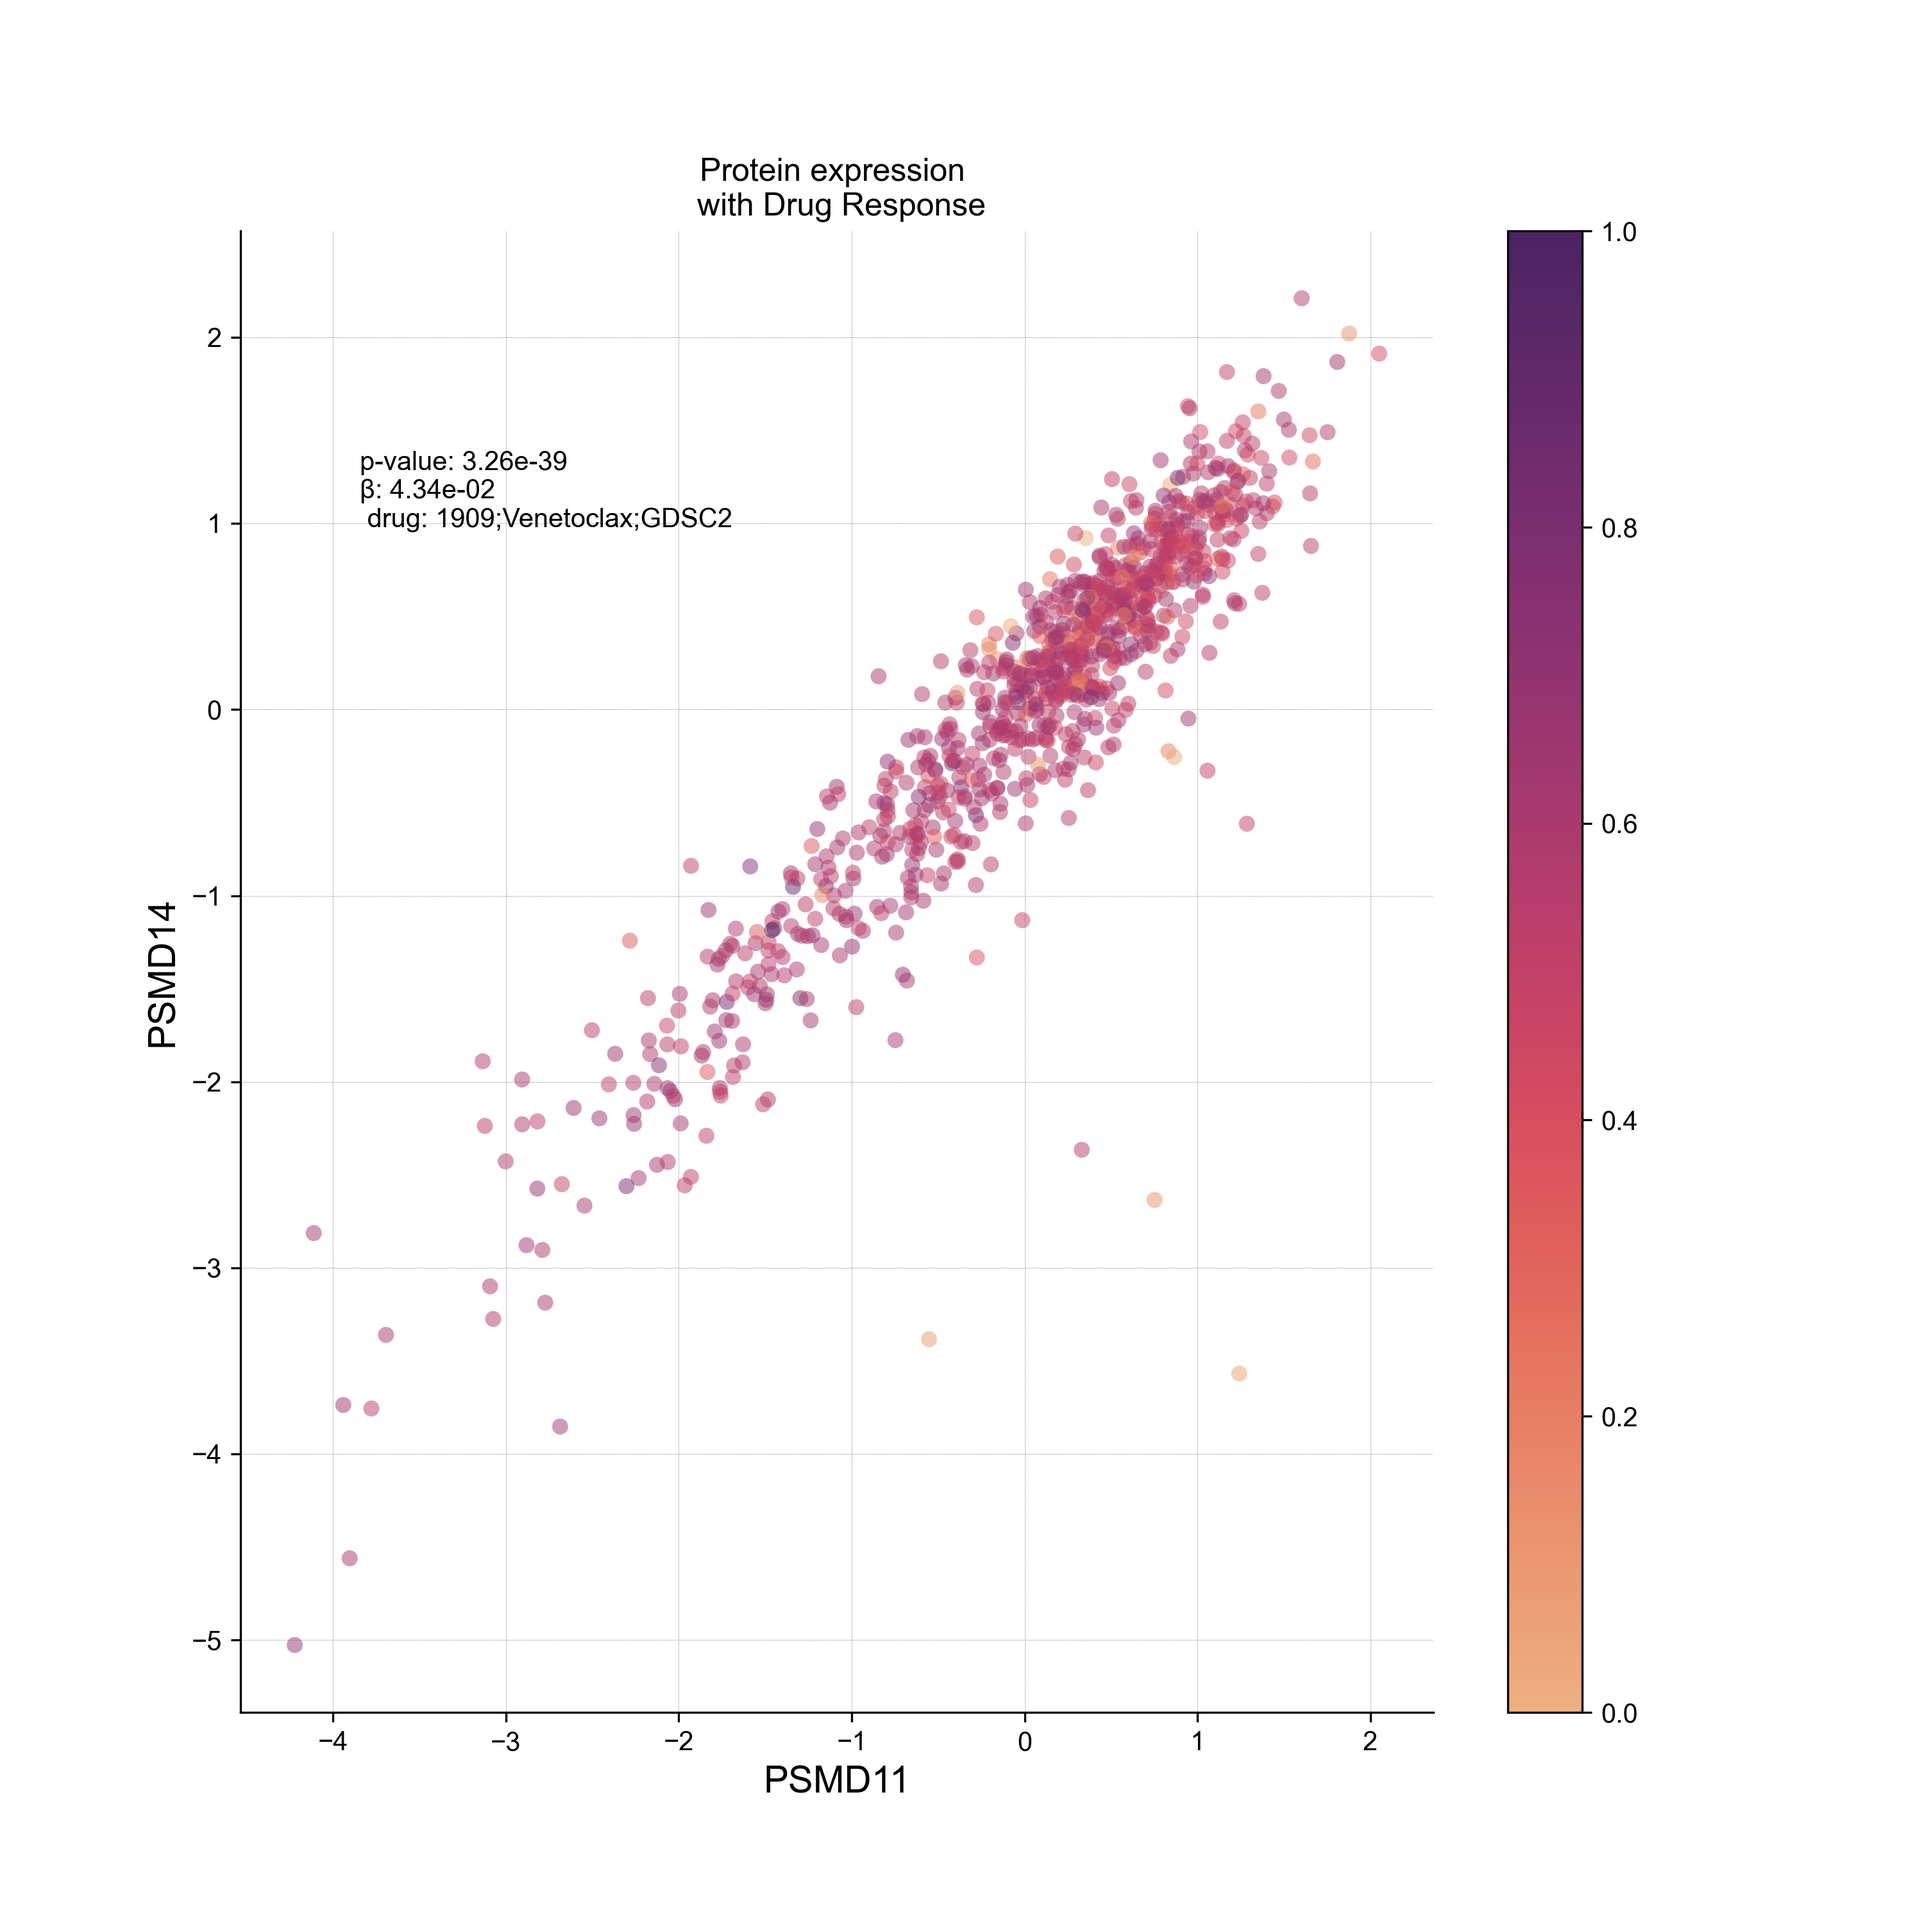
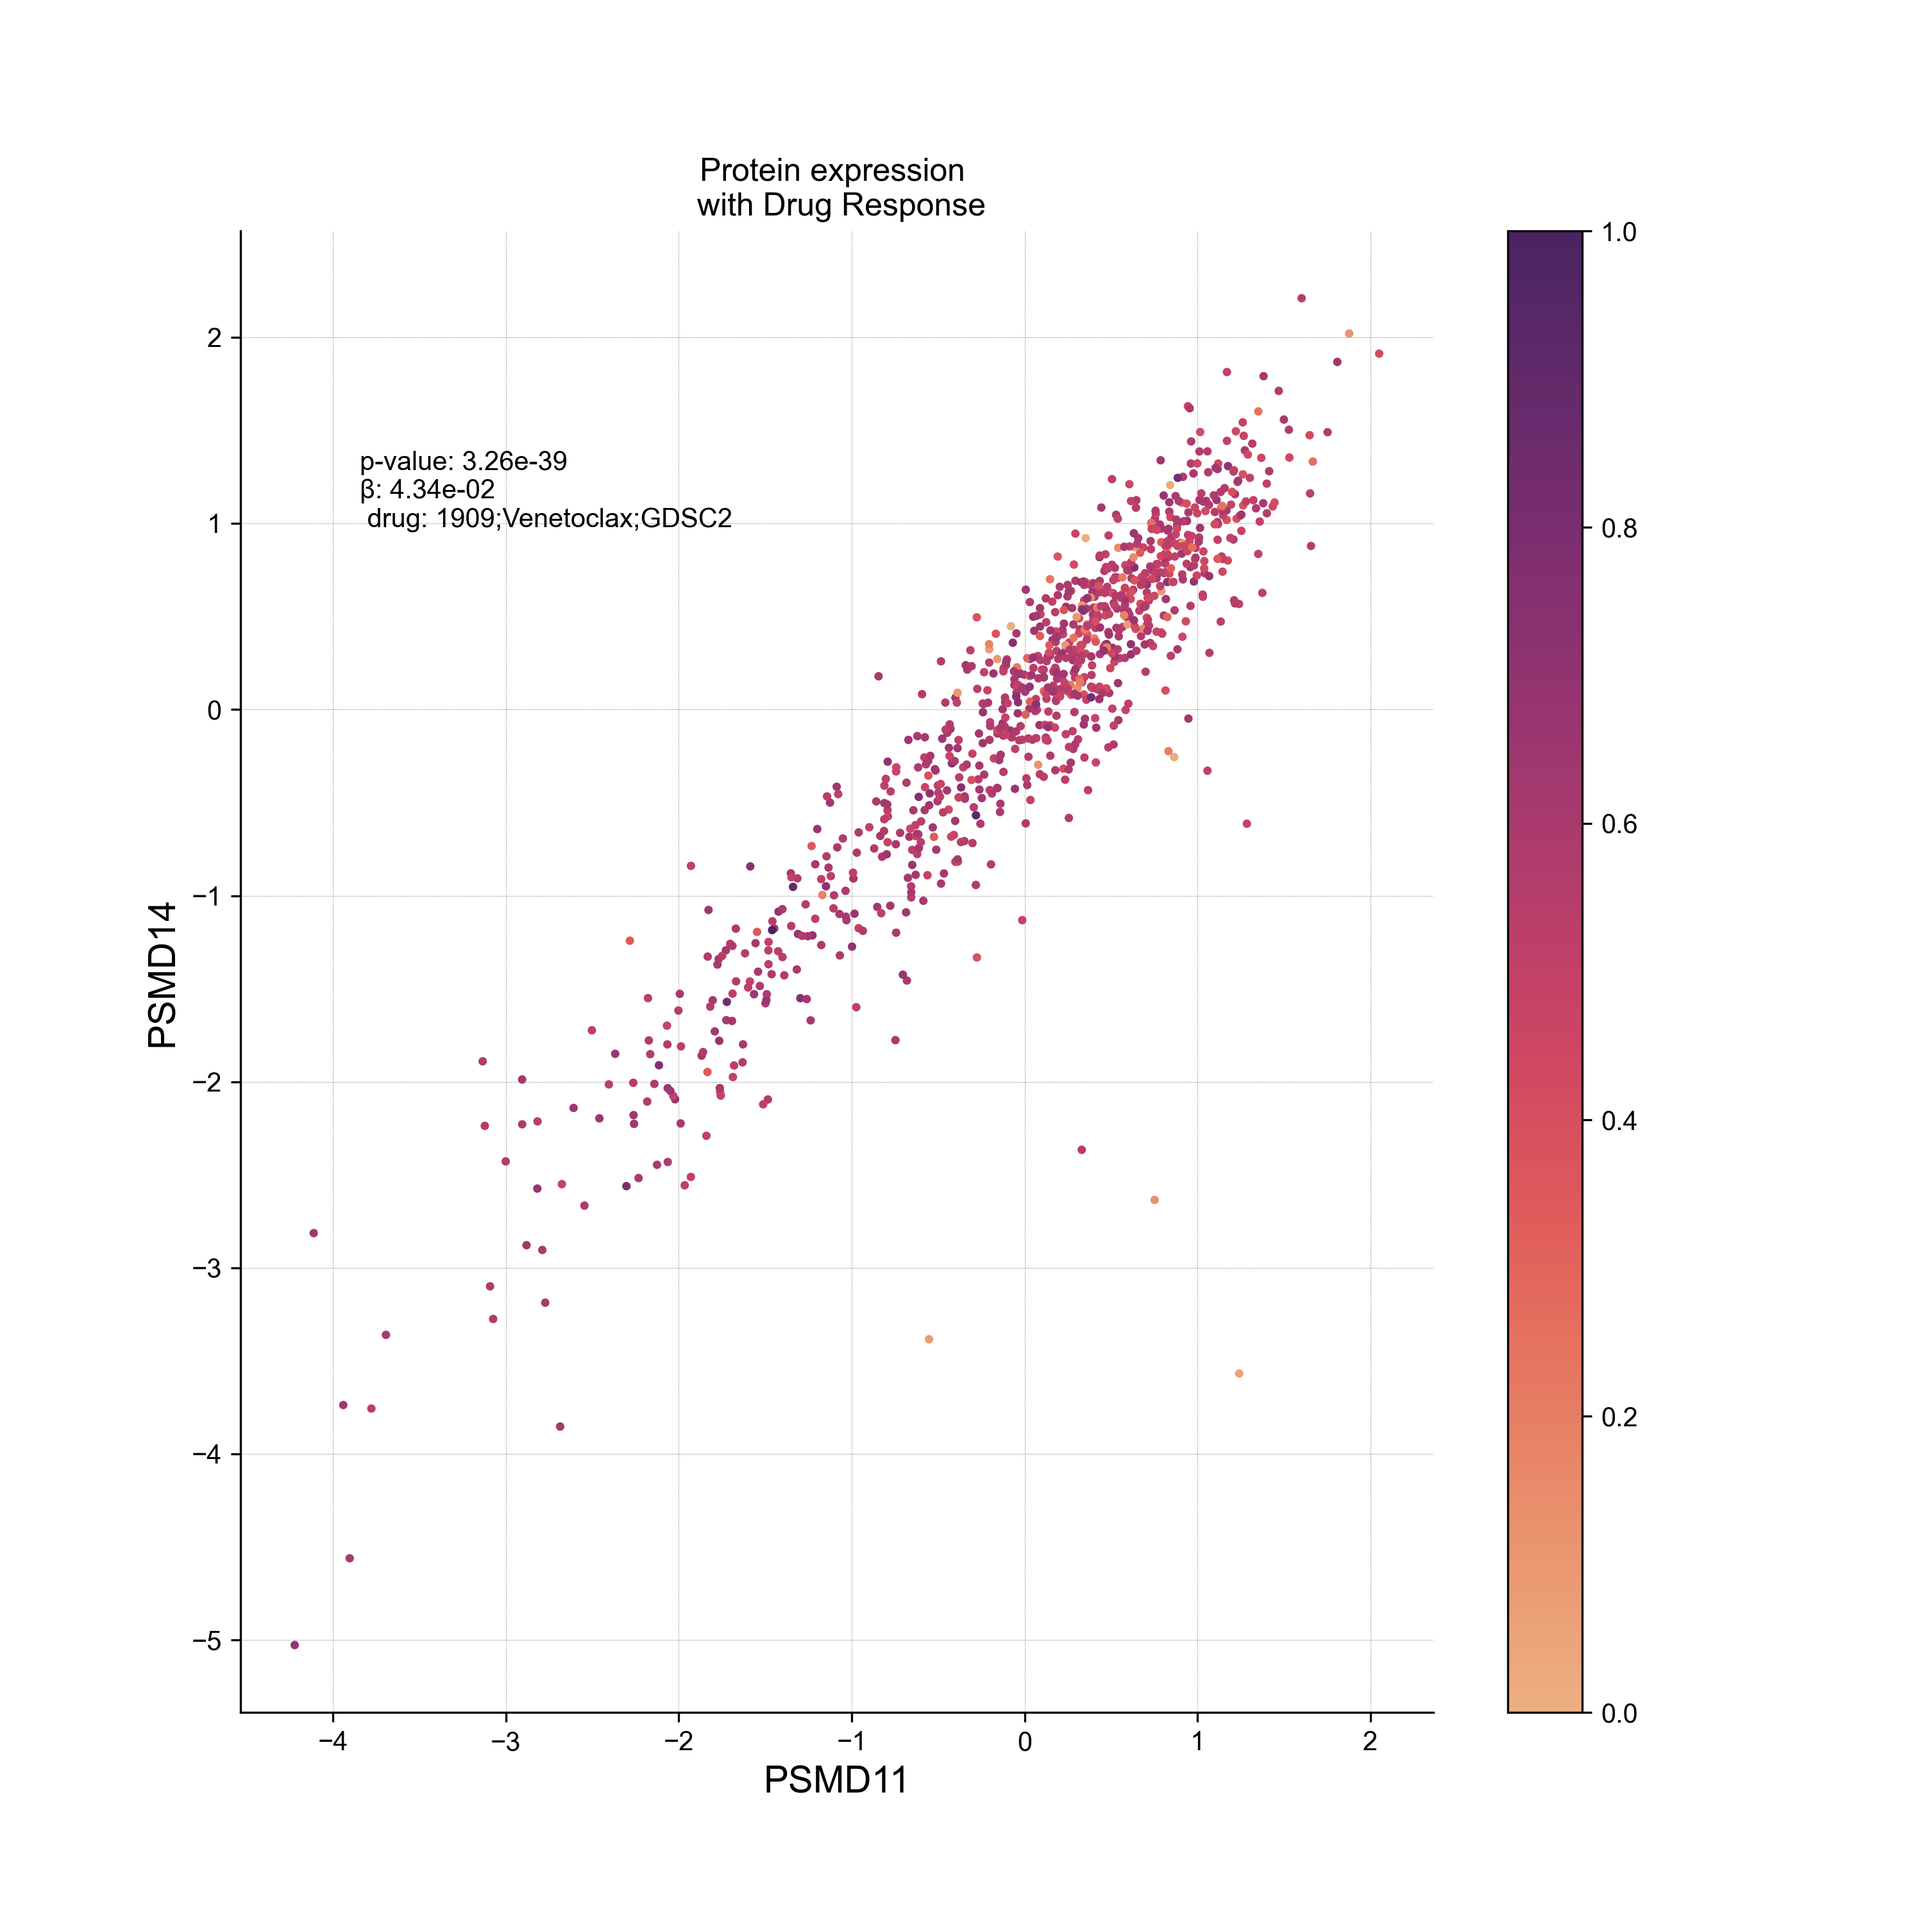
New scatterplot version

Changed region(s): [[0.248, 0.186, 0.713, 0.62]]

diff --git a/src/resources/classes.py b/src/resources/classes.py
@@ -712,7 +712,7 @@ class ProteinsMatrix(MatrixData):
 
 
         plt.figure(figsize=(10, 10))
-        scatter = sns.scatterplot(data=plottingData, x=pxName, y=pyName, hue=drug, palette="flare", alpha=0.5, edgecolor='none')
+        scatter = sns.scatterplot(data=plottingData, x=pxName, y=pyName, hue=drug, palette="flare", alpha=1, edgecolor='none', s=10)
         # Add Colour Map
         sm = plt.cm.ScalarMappable(cmap="flare")
         sm.set_array([])
@@ -1350,7 +1350,7 @@ class ResidualsLinearModel(GeneralLinearModel):
         super().__init__(Y, X, M, M2, fit_intercept, copy_X, n_jobs, verbose)
 
 
-    def volcanoPlot(self, filepath:str, falseDiscoveryRate:float=0.10, pValHzLine:float = 0.001):
+    def volcanoPlot(self, filepath:str, falseDiscoveryRate:float=0.01, pValHzLine:float = 0.001):
         """
         Volcano plot in order to find statisticall relevant relationships.
         """
